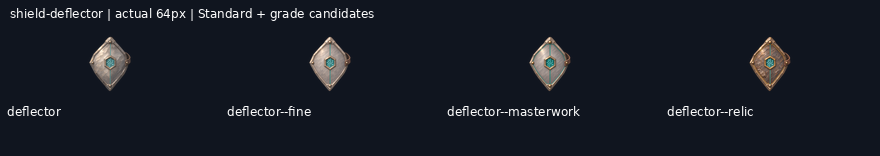
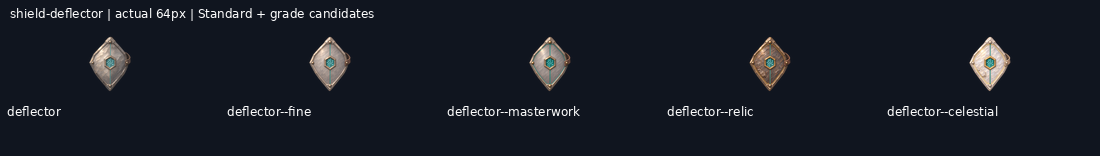
Deliver shield-deflector--celestial review candidate

diff --git a/art/_archive/gear/2026-11-20-reset-continuation/HANDOFF.md b/art/_archive/gear/2026-11-20-reset-continuation/HANDOFF.md
@@ -1,13 +1,13 @@
 # Reset continuation progress
 
-Branch: `art/2026-11-20-reset-continuation`. New deliveries: 65/94.
+Branch: `art/2026-11-20-reset-continuation`. New deliveries: 66/94.
 
 Shared coordination: https://github.com/leonpentastorm/Project-Heaven-Cry/issues/3 . Read START-HERE.md before extending this queue.
 
 All new entries remain review-candidate; production_approved:false and implementation_ready:false. Exact-outline review remains pending.
 
-Ready jobs: shield-deflector--celestial, shield-bulwark_screen--fine, shield-barrier_wall--fine.
+Ready jobs: shield-bulwark_screen--fine, shield-barrier_wall--fine.
 
-Pending jobs: weapon-hellraiser_rotary--celestial, weapon-purifier_flamer--masterwork, weapon-purifier_flamer--relic, weapon-purifier_flamer--celestial, weapon-dock_cutter--masterwork, weapon-dock_cutter--relic, weapon-dock_cutter--celestial, weapon-broadback_sabre--relic, weapon-broadback_sabre--celestial, weapon-short_draw--fine, weapon-short_draw--masterwork, weapon-short_draw--relic, weapon-short_draw--celestial, weapon-long_draw--fine, weapon-long_draw--masterwork, weapon-long_draw--relic, weapon-long_draw--celestial, weapon-kemizuchi_side_sword--masterwork, weapon-kemizuchi_side_sword--relic, weapon-kemizuchi_side_sword--celestial, shield-deflector--celestial, shield-bulwark_screen--fine, shield-bulwark_screen--masterwork, shield-bulwark_screen--relic, shield-bulwark_screen--celestial, shield-barrier_wall--fine, shield-barrier_wall--masterwork, shield-barrier_wall--relic, shield-barrier_wall--celestial.
+Pending jobs: weapon-hellraiser_rotary--celestial, weapon-purifier_flamer--masterwork, weapon-purifier_flamer--relic, weapon-purifier_flamer--celestial, weapon-dock_cutter--masterwork, weapon-dock_cutter--relic, weapon-dock_cutter--celestial, weapon-broadback_sabre--relic, weapon-broadback_sabre--celestial, weapon-short_draw--fine, weapon-short_draw--masterwork, weapon-short_draw--relic, weapon-short_draw--celestial, weapon-long_draw--fine, weapon-long_draw--masterwork, weapon-long_draw--relic, weapon-long_draw--celestial, weapon-kemizuchi_side_sword--masterwork, weapon-kemizuchi_side_sword--relic, weapon-kemizuchi_side_sword--celestial, shield-bulwark_screen--fine, shield-bulwark_screen--masterwork, shield-bulwark_screen--relic, shield-bulwark_screen--celestial, shield-barrier_wall--fine, shield-barrier_wall--masterwork, shield-barrier_wall--relic, shield-barrier_wall--celestial.
 
 Quota state: null.
